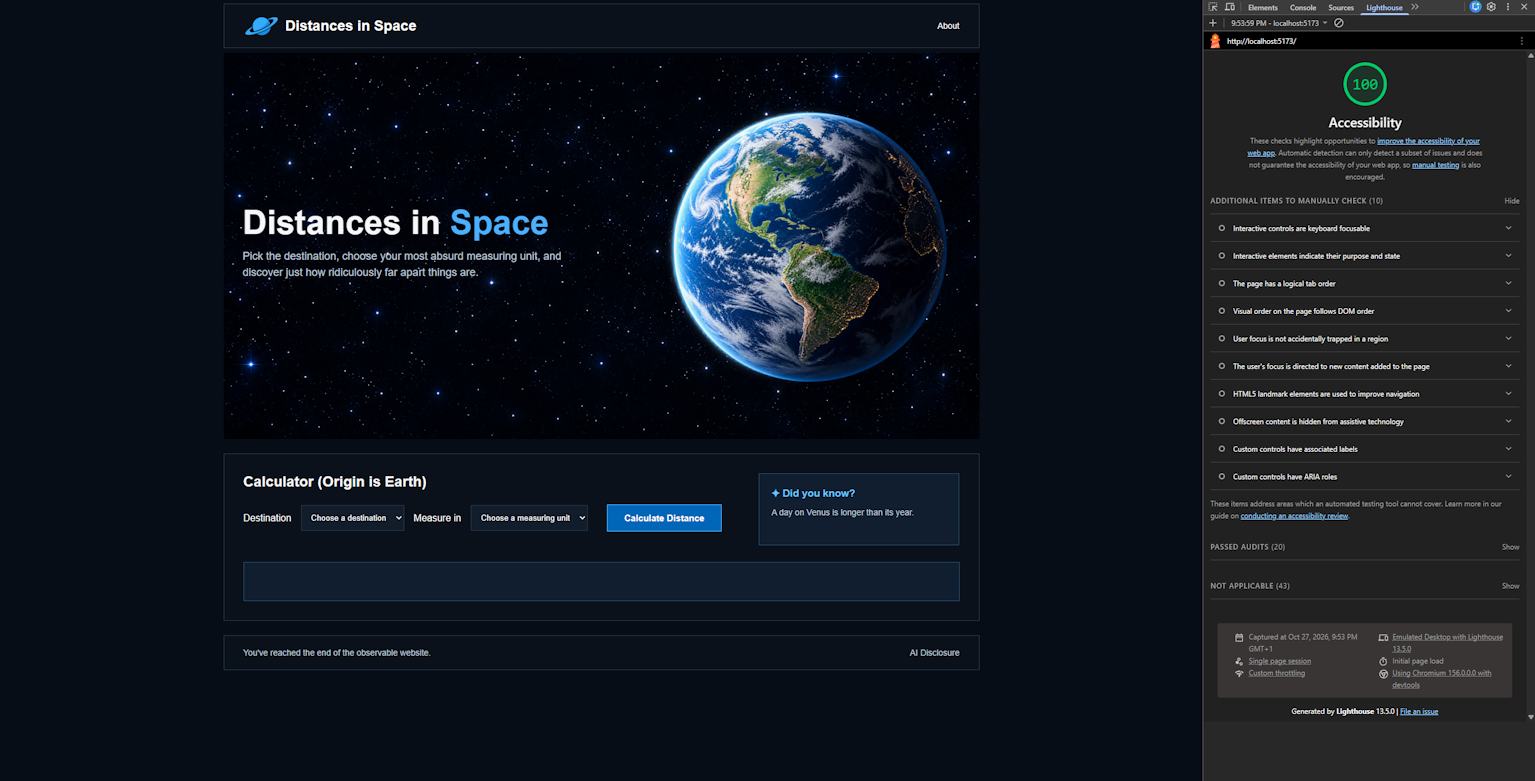
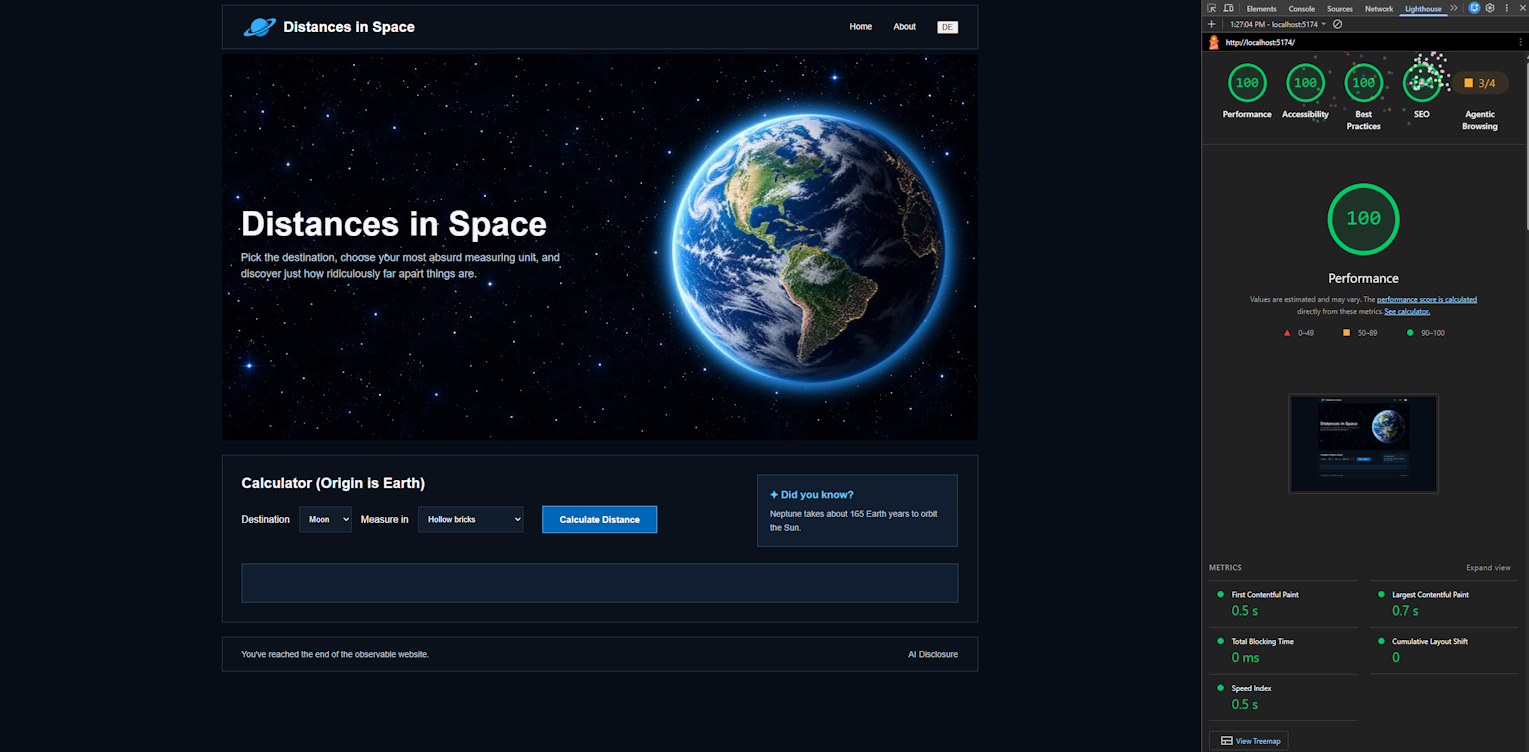
perf: Optimizing lighthouse score to 4x100

diff --git a/index.html b/index.html
@@ -4,6 +4,7 @@
 <head>
     <meta charset="UTF-8">
     <meta name="viewport" content="width=device-width, initial-scale=1.0">
+    <meta name="description" content="Distances in Space is an educational website that allows users to explore the vast distances between celestial bodies in our universe.">
 
     <title>Distances in Space</title>
 
@@ -68,7 +69,7 @@
                 </div>
             </div>
 
-            <img src="img/earth_bg.png" alt="Planet Earth" class="hero-earth">
+            <img src="img/earth_bg.webp" alt="Planet Earth" class="hero-earth">
         </section>
 
         <section id="calculator" class="calculator">

diff --git a/README.md b/README.md
@@ -59,7 +59,7 @@ First working prototype without Lighthouse check
 9. Lighthouse check
 --------------------------
 Contrast of Calculate button led to 96 points.
-Fix: Darker background blue of Calculate button -> 100 points
+Fix: Darker background blue of Calculate button -> 100 points (Accessibility)
 
 10. "About" functionality
 --------------------------
@@ -89,3 +89,7 @@ Added the reflexion.pdf (293 words)
 16. Production fail fixed
 --------------------------
 Wrong structure led to zero functionality in production build
+
+17. Optimization II
+--------------------------
+For 100 in all subsections of Lighthouse
